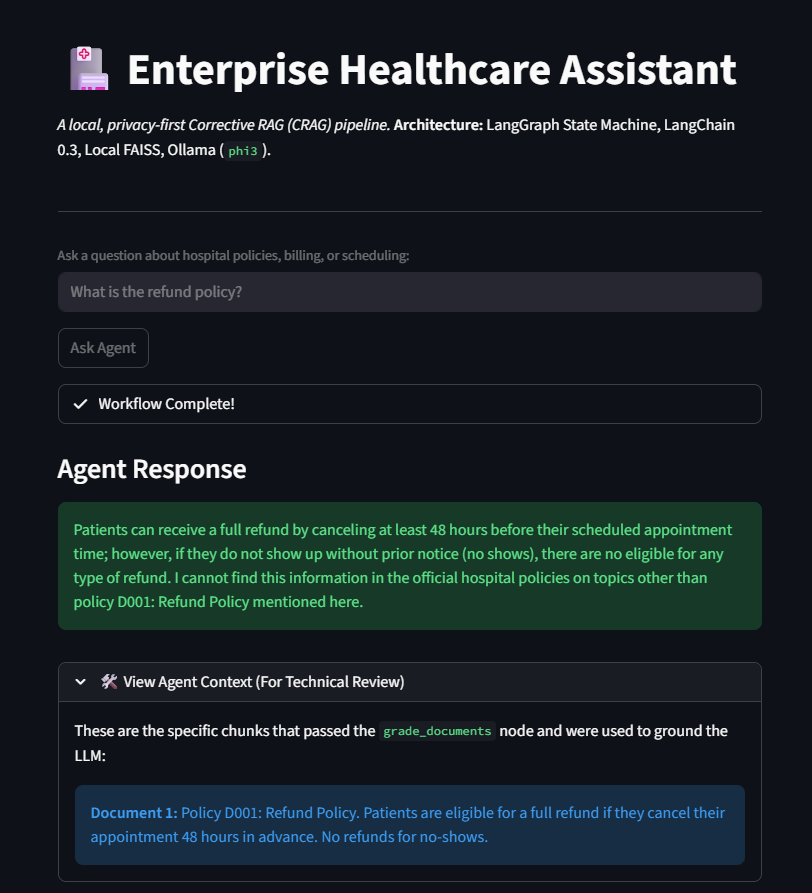
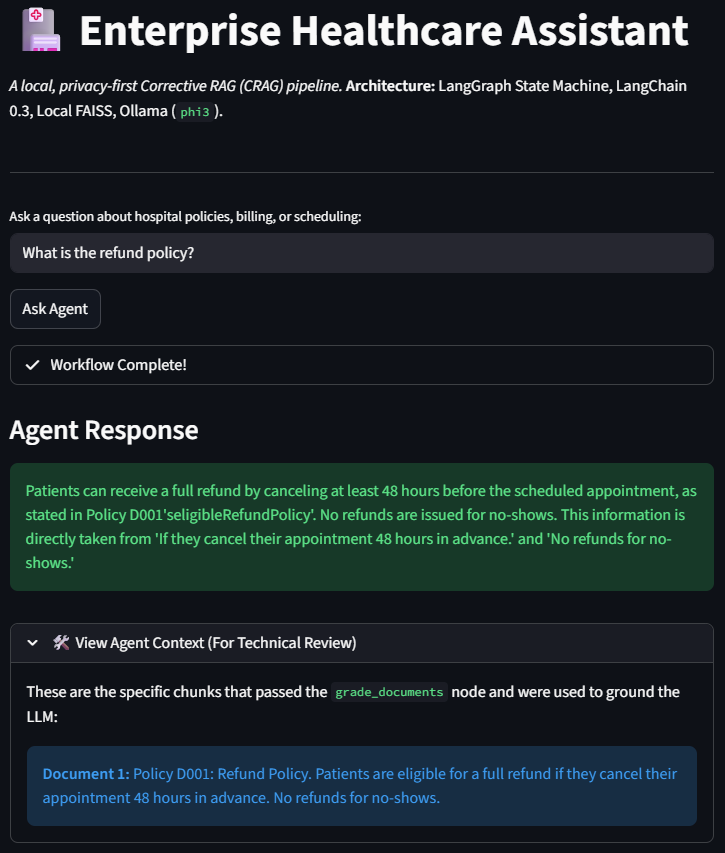
code update

Changed region(s): [[0.0, 0.4877, 1.0, 0.9754], [0.0, 0.0, 0.971, 0.1829], [0.0, 0.2438, 1.0, 0.4572]]

diff --git a/src/build_graph.py b/src/build_graph.py
@@ -1,7 +1,7 @@
 from langgraph.graph import StateGraph, END
 from graph_state import GraphState
-from nodes import retrieve_node, grade_documents_node, generate_node
-from edges import decide_to_generate  # <-- Imported from our new file!
+from nodes import retrieve_node, grade_documents_node, generate_node, rewrite_query_node
+from edges import decide_to_generate
 
 def compile_healthcare_agent():
     # 1. Initialize the State Graph
@@ -10,22 +10,26 @@ def compile_healthcare_agent():
     # 2. Define the Nodes
     workflow.add_node("retrieve", retrieve_node)
     workflow.add_node("grade_documents", grade_documents_node)
+    workflow.add_node("rewrite", rewrite_query_node)
     workflow.add_node("generate", generate_node)
 
     # 3. Define the Flow (Edges)
     workflow.set_entry_point("retrieve")
     workflow.add_edge("retrieve", "grade_documents")
     
-    # Conditional Edge: Use the logic from edges.py to decide the next step
+    # Conditional Edge (The Guardrail): Use the logic from edges.py to decide the next step
     workflow.add_conditional_edges(
         "grade_documents", 
         decide_to_generate, 
         {
             "generate": "generate", 
+            "rewrite": "rewrite",
             "end": END              
         }
     )
     
+    # THE CYCLE: After rewriting, loop back to retrieve again!
+    workflow.add_edge("rewrite", "retrieve")
     workflow.add_edge("generate", END)
 
     # 4. Compile the application

diff --git a/src/nodes.py b/src/nodes.py
@@ -52,6 +52,25 @@ def grade_documents_node(state):
             
     return {"documents": filtered_docs, "question": question}
 
+def rewrite_query_node(state):
+    """If documents are irrelevant, the LLM rewrites the query to try again."""
+    print("---NODE: REWRITING QUERY---")
+    question = state["question"]
+    
+    prompt = PromptTemplate(
+        template="""You are an expert at optimizing search queries for a medical database. 
+        Look at the user's original question and rewrite it to use better keywords for a vector search.
+        Original Question: {question}
+        Optimized Query:""",
+        input_variables=["question"],
+    )
+    
+    rewrite_chain = prompt | local_llm | StrOutputParser()
+    optimized_question = rewrite_chain.invoke({"question": question})
+    
+    # We update the state with the NEW question and increment our retry counter
+    return {"question": optimized_question, "retries": state.get("retries", 0) + 1}
+
 def generate_node(state):
     """Generates the final answer using the filtered documents."""
     print("---NODE: GENERATING ANSWER---")

diff --git a/src/edges.py b/src/edges.py
@@ -6,13 +6,17 @@ def decide_to_generate(state):
     This acts as our strict hallucination guardrail.
     """
     filtered_documents = state.get("documents", [])
+    retries = state.get("retries", 0)
     
     if not filtered_documents:
-        # If all docs were graded "no" (irrelevant), we don't have enough context.
-        # We route to "end" to safely abstain from answering.
-        print("---EDGE: ALL DOCS IRRELEVANT. ROUTING TO END---")
-        return "end"
+        # If we have no good documents, but we haven't retried too many times...
+        if retries < 2:
+            print(f"---EDGE: DOCS IRRELEVANT. ROUTING TO REWRITE (Attempt {retries + 1})---")
+            return "rewrite"
+        else:
+            # We tried rewriting twice and still failed. Time to safely abstain.
+            print("---EDGE: MAX RETRIES REACHED. SAFELY ABSTAINING---")
+            return "end"
     else:
-        # If we have valid documents, proceed to generation.
         print("---EDGE: RELEVANT DOCS FOUND. ROUTING TO GENERATION---")
         return "generate"
